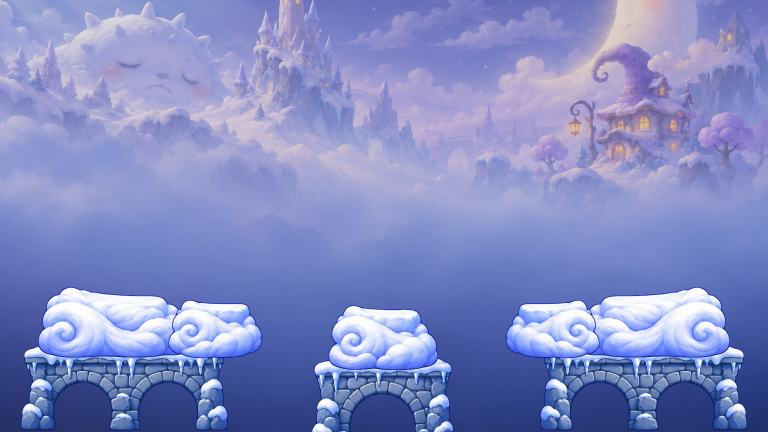
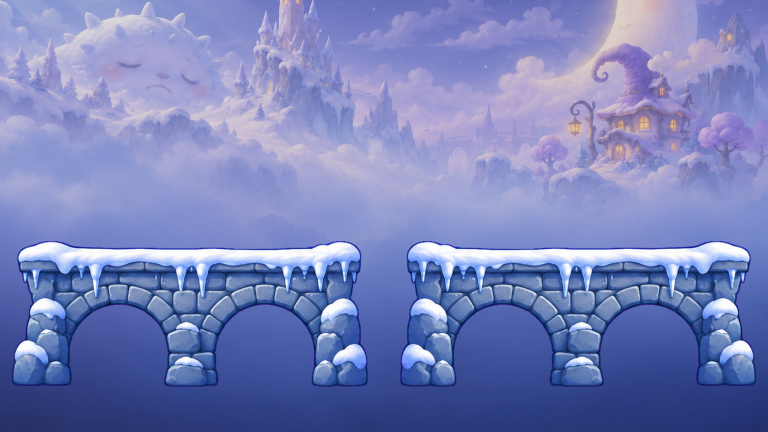
Sonho Nevado: só a ponte de pedra, maior e destrutível
Claude-Session: https://claude.ai/code/session_01Qghigksom72nNn7R5uKPfk

Changed region(s): [[0.0, 0.5417, 1.0, 1.0]]

diff --git a/shared/maps.ts b/shared/maps.ts
@@ -67,7 +67,7 @@ export const MAP_DEFINITIONS:Record<CanonicalMapId,MapDefinition>={
    structure('celestial-left-crystal',[[166,551],[156,527],[170,489],[186,527],[180,551]],'magic'),structure('celestial-right-crystal',[[1370,551],[1380,527],[1366,489],[1350,527],[1356,551]],'magic')],
   objects:[{id:'statue-a',kind:'statue',x:104,y:552,scale:.85,layer:5},{id:'statue-b',kind:'statue',x:1432,y:552,scale:.85,layer:5},{id:'crystal-a',kind:'crystal',x:171,y:551,scale:.65,layer:5,region:'celestial-left-crystal',animated:true},{id:'crystal-b',kind:'crystal',x:1365,y:551,scale:.65,layer:5,region:'celestial-right-crystal',animated:true},{id:'flag-a',kind:'flag',x:570,y:540,scale:1,layer:5,animated:true},{id:'flag-b',kind:'flag',x:966,y:540,scale:1,layer:5,animated:true},{id:'crystal-front-a',kind:'crystal',x:35,y:890,scale:2,layer:6,animated:true},{id:'crystal-front-b',kind:'crystal',x:1503,y:890,scale:1.8,layer:6,animated:true}]
  },
- snow:{...common,id:'snow',name:'Sonho Nevado',subtitle:'Neve e pontes de pedra · Híbrido',color:'#8fb8ff',theme:'snow',lighting:{sky:'#5d6fb8',horizon:'#b9c4ee',ambient:'#dfe8ff'},audio:{ambience:'wind',impact:{earth:'dust'}},
+ snow:{...common,id:'snow',name:'Sonho Nevado',subtitle:'Pontes de pedra nevadas · Destrutível',color:'#8fb8ff',theme:'snow',lighting:{sky:'#5d6fb8',horizon:'#b9c4ee',ambient:'#dfe8ff'},audio:{ambience:'wind',impact:{earth:'dust'}},
   art:{background:'/assets/maps/snow/background.webp',midground:'/assets/maps/snow/background.webp',props:'/assets/maps/garden-props.png',terrain:'/assets/maps/snow/terrain-world.png'},
   regions:SNOW_REGIONS,objects:[]
  }
